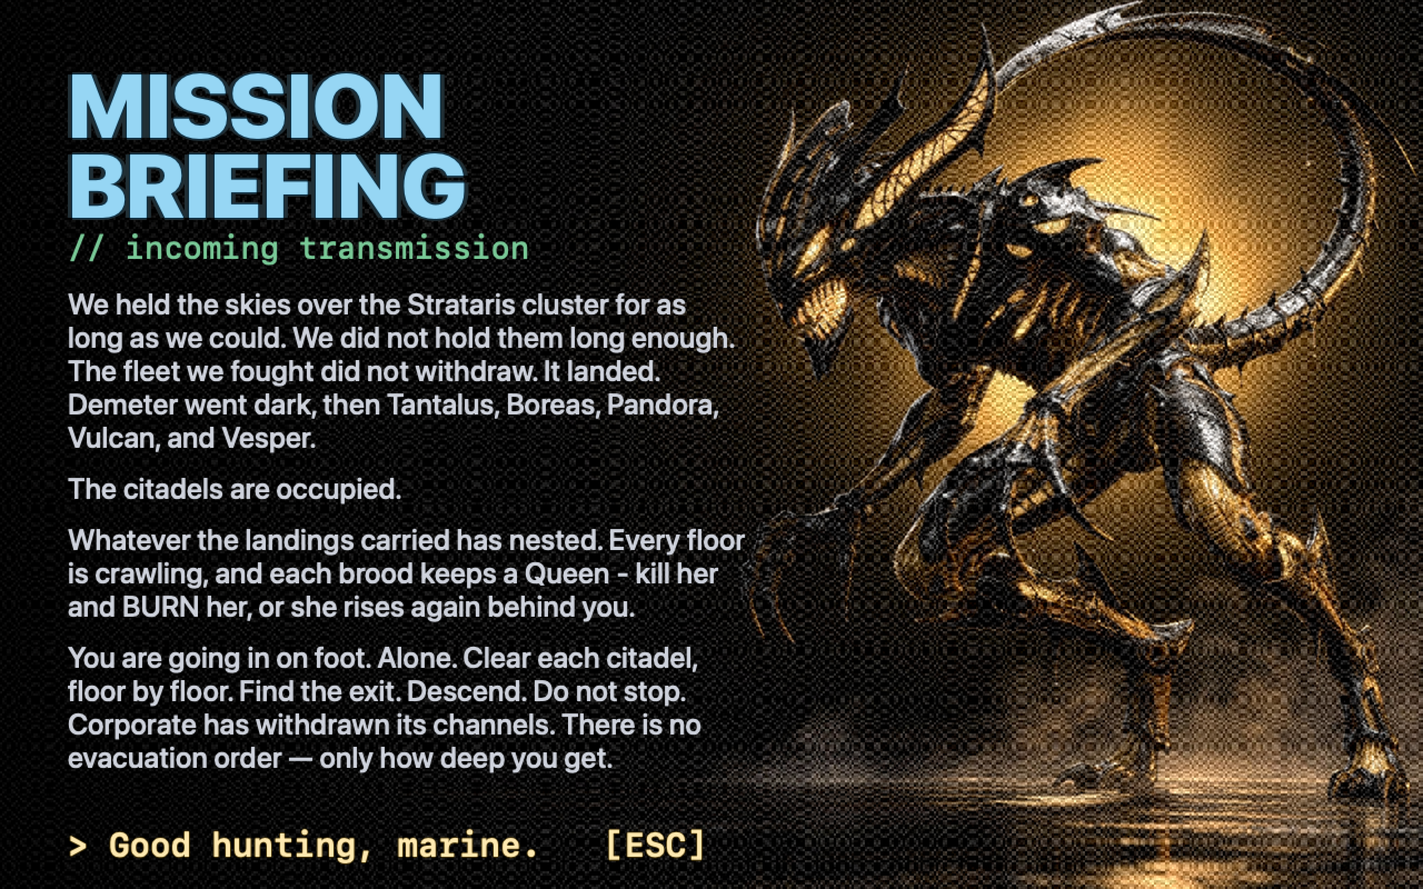
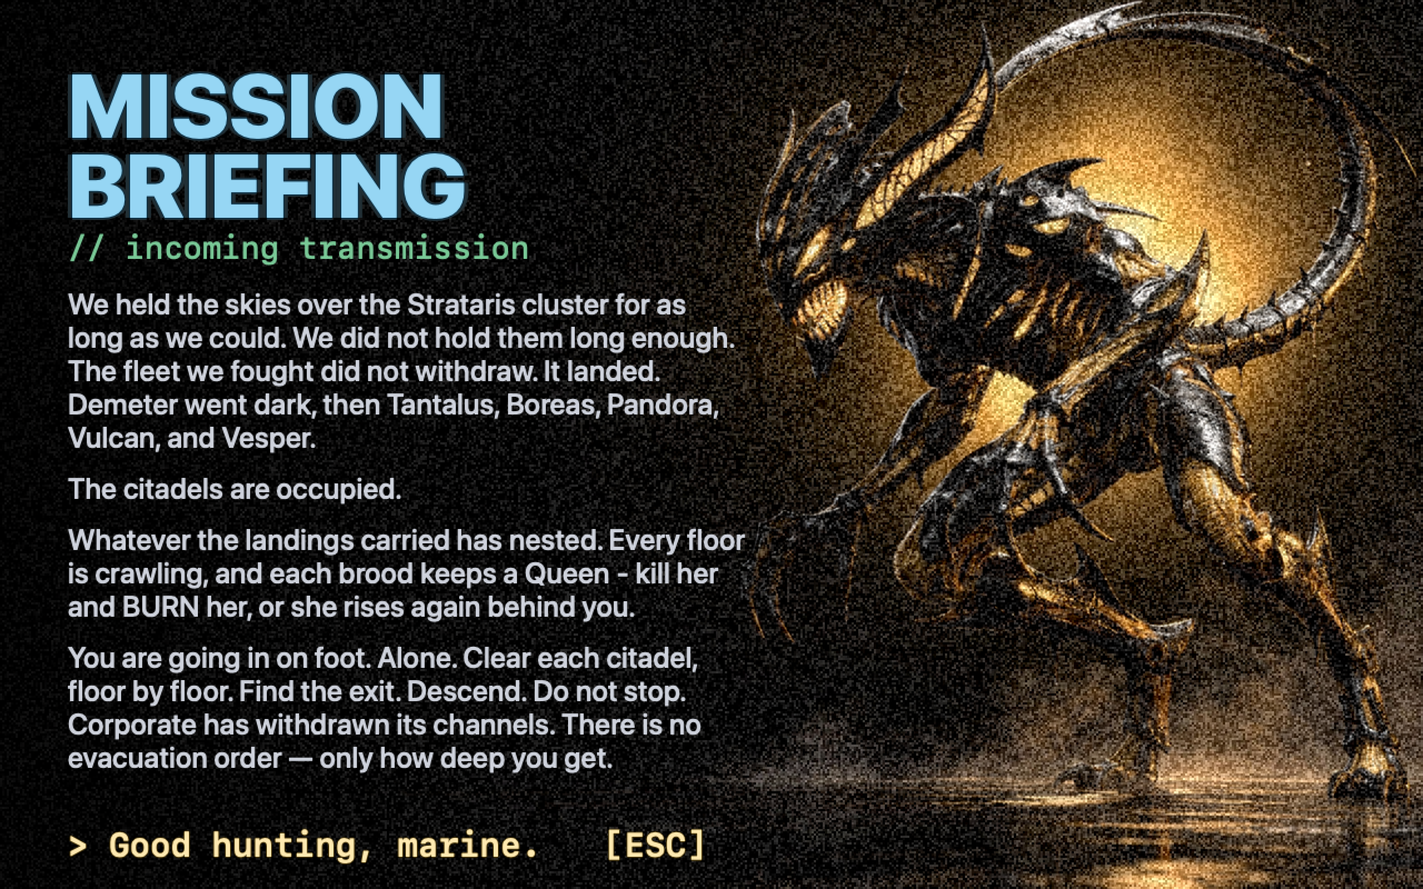
Pre-flight: prove the bundle carries no dead weight, and retake every screenshot
A release audit of the whole repo. The headline is that the CODE is clean — 69 Swift sources on
disk, 69 in the Makefile, no orphans in either direction, and all 114 resources referenced — but
that two things nobody was checking had rotted badly.

EVERY SCREENSHOT WAS OBSOLETE. All sixteen predated the renderer pivot (newest 22 July; the SDF
raymarcher was deleted on the 29th), so the six embedded in the README showed a game that no longer
exists — soft melted surfaces, no cast shadows, and a two-weapon HUD from before the three-weapon
redesign. Retaken from the shipping build. The numbering had also collided —
07-intel-5/07-weapons, 08-briefing/08-items, 10-highscores/10-atmosphere — because Captures.swift
numbers most frames from a running counter and hardcodes the rest, and the counter had grown past
the hardcoded numbers with both files surviving. Hardcoded names now start past the sequence.

Two frames were reworked rather than merely re-shot, because they were poor even when current.
`02-combat` was a fuel drum alone in an empty corridor — an honest picture of the renderer and a
poor picture of the game; there is a drone coming over the drum now, and the sightline requirement
DEGRADES through 4.4/3.4/2.7 rather than failing, because my first attempt asked for a single fixed
reach, found no angle, placed nothing, and left the marine facing a wall. A staging requirement
that can fail closed will eventually produce a blank marketing shot with nobody watching.
[…]

diff --git a/Sources/Harness/Captures.swift b/Sources/Harness/Captures.swift
@@ -52,14 +52,29 @@ enum Captures {
             }
             return true
         }
-        for k in 0..<24 {
-            let ang = world.player.dir + Float(k) * (.pi * 2 / 24)
-            if clearAhead(ang, 2.7) {
-                world.player.dir = ang
-                let dv = SIMD2<Float>(cos(ang), sin(ang))
-                world.drums.append(Drum(pos: world.player.pos + dv * 2.3, fuel: 150, health: 24))
-                break
+        // …AND SOMETHING TO SHOOT AT. The shot the README leads its gameplay row with was a fuel drum
+        // alone in an empty corridor — an honest picture of the renderer and a poor picture of the
+        // GAME. A drone put down the same sightline gives the frame the thing it is about. Placed
+        // rather than waited for: a marketing frame that depends on the AI wandering into view is one
+        // that silently becomes empty the day generation shifts.
+        //
+        // The reach DEGRADES rather than failing. Asking for a single fixed 4.4-cell sightline found
+        // no angle at all on this seed, so nothing was placed and the marine was left facing a wall —
+        // a staging requirement that can fail closed will eventually produce a blank marketing shot
+        // with nobody watching. Longest first, and the drone stands wherever the winning reach allows.
+        for reach in [Float(4.4), 3.4, 2.7] {
+            guard let ang = (0..<24).lazy
+                    .map({ world.player.dir + Float($0) * (.pi * 2 / 24) })
+                    .first(where: { clearAhead($0, reach) }) else { continue }
+            world.player.dir = ang
+            let dv = SIMD2<Float>(cos(ang), sin(ang))
+            world.drums.append(Drum(pos: world.player.pos + dv * (reach * 0.52), fuel: 150, health: 24))
+            if let di = world.monsters.firstIndex(where: { $0.kind == .alien }) {
+                world.monsters[di].pos = world.player.pos + dv * (reach * 0.88)
+                world.monsters[di].dir = ang + .pi          // facing the marine
+                world.monsters[di].state = .chase
             }
+            break
         }
         let game = Canvas2D()
         draw3D(world, into: game)
@@ -114,8 +129,8 @@ enum Captures {
         draw3D(world, into: dark)
         HUD().draw(world, into: dark)
         writePNG(dark.framebuffer, w: RenderConfig.width, h: RenderConfig.height, scale: scale,
-                 to: dir.appendingPathComponent("10-atmosphere.png"))
-        print("  wrote 10-atmosphere.png")
+                 to: dir.appendingPathComponent("16-atmosphere.png"))
+        print("  wrote 16-atmosphere.png")
 
         // door — part a sliding door halfway and frame it head-on from a couple
         // cells back, so the centre-split (two panels retracting to the jambs, the
@@ -157,10 +172,38 @@ enum Captures {
             let intel = Canvas2D(); FrontEnd.intel(intel, t: 5.0, page: page); save(intel, "intel-\(page + 1)")
         }
         let brief = Canvas2D(); FrontEnd.briefing(brief, t: 0.5); save(brief, "briefing")
+        // FLOOR CLEARED, with a tally it actually EARNED. This card used to be drawn over the same
+        // lightly-simulated world as the combat shot, so it advertised a cleared floor with 0/20
+        // kills, 0/1 secrets and a score of zero — a screenshot that reads as a bug report. The tally
+        // is not faked in: drones are walked in front of the marine and genuinely shot, so `World`
+        // does the damage, the deaths and the scoring by its own rules and the numbers on the card
+        // are ones the sim produced. A marketing frame may be staged; it may not lie.
+        // …in its OWN world. Reusing the combat world meant inheriting three shots' worth of staging:
+        // a drone forced to `.dead` for the fire frame (which bypasses `damageMonster`, so the HUD's
+        // live-state count and the card's `killCount` legitimately disagreed), a spent flamethrower,
+        // and a camera parked in the darkest cell for the atmosphere frame. A summary card wants a
+        // clean floor behind it.
+        let cw = World(level: 3, colonyIndex: 4, seed: 90210)
+        cw.player.giveWeapon(.plasma); cw.player.current = .plasma
+        let killInput = InputState(); killInput.kb.fire = true
+        for _ in 0..<9 {
+            guard let di = cw.monsters.firstIndex(where: { $0.alive && $0.kind == .alien }) else { break }
+            let dv = SIMD2<Float>(cos(cw.player.dir), sin(cw.player.dir))
+            cw.monsters[di].pos = cw.player.pos + dv * 2.6
+            cw.player.giveAmmo(.cells, 40)
+            var frames = 0
+            while cw.monsters[di].alive && frames < 400 {
+                cw.player.health = Player.maxHealth             // the marine is not the subject here
+                cw.update(dt: 1.0 / 60, input: killInput, audio: audio)
+                frames += 1
+            }
+        }
+        cw.player.health = Player.maxHealth
+        cw.player.muzzle = 0; cw.player.fireAnim = 0
         let cleared = Canvas2D()
-        draw3D(world, into: cleared)
-        HUD().draw(world, into: cleared)
-        FrontEnd.descendReport(cleared, world: world, t: 1.0)   // the diegetic panel shown inside the exit car
+        draw3D(cw, into: cleared)
+        HUD().draw(cw, into: cleared)
+        FrontEnd.descendReport(cleared, world: cw, t: 1.0)      // the diegetic panel shown inside the exit car
         save(cleared, "cleared")
         let scores = Canvas2D(); FrontEnd.highScores(scores, hs: hs, t: 0.5); save(scores, "highscores")
 
@@ -185,8 +228,8 @@ enum Captures {
             }
             wsheet.label(k.def.name, i * wW + 24, 20, size: 28, color: packRGBA(236, 202, 96), weight: .bold)
         }
-        writePNG(wsheet.framebuffer, w: wsheet.width, h: wsheet.height, scale: 1, to: dir.appendingPathComponent("07-weapons.png"))
-        print("  wrote 07-weapons.png")
+        writePNG(wsheet.framebuffer, w: wsheet.width, h: wsheet.height, scale: 1, to: dir.appendingPathComponent("14-weapons.png"))
+        print("  wrote 14-weapons.png")
 
         // item contact sheet
         let icols = 4, irows = (ItemKind.allCases.count + icols - 1) / icols
@@ -200,8 +243,8 @@ enum Captures {
             isheet.strokeRect(gx + 1, gy + 1, icw - 2, icw - 2, packRGBA(56, 58, 70))
             isheet.blitBitmap(spr.pixels, spr.w, spr.h, gx + (icw - spr.w) / 2, gy + (icw - spr.h) / 2)
         }
-        writePNG(isheet.framebuffer, w: icols * icw, h: irows * icw, scale: 2, to: dir.appendingPathComponent("08-items.png"))
-        print("  wrote 08-items.png")
+        writePNG(isheet.framebuffer, w: icols * icw, h: irows * icw, scale: 2, to: dir.appendingPathComponent("15-items.png"))
+        print("  wrote 15-items.png")
 
         // (the creatures' dossier busts are the mesh portraits shown in the codex —
         //  see the Field Intel pages below; there is no SDF monster contact sheet.)

diff --git a/Sources/Audio/AudioEngine.swift b/Sources/Audio/AudioEngine.swift
@@ -512,6 +512,50 @@ final class AudioEngine {
     }
 
     #if CITADEL_HARNESS
+    /// Every name `loadBank` would ever ask the bundle for: each Sound's base, plus its 1…16 variants.
+    private static var wantedAudioStems: Set<String> {
+        var out = Set<String>()
+        for s in Sound.allCases {
+            out.insert(s.base)
+            for i in 1...16 { out.insert("\(s.base)\(i)") }
+        }
+        return out
+    }
+
+    /// Harness only: audio files shipped in the bundle that NO `Sound` case will ever ask for —
+    /// bytes in the download that cannot make a sound. Nothing else can see these: the bank simply
+    /// never looks them up, so they are invisible to the probe, the smoke suite and the ear alike.
+    /// A renamed Sound base or a file numbered past 16 lands here rather than being noticed at
+    /// release time (or never).
+    var orphanAudioFiles: [String] {
+        let wanted = AudioEngine.wantedAudioStems
+        var out: [String] = []
+        for ext in AudioEngine.exts {
+            for url in Bundle.main.urls(forResourcesWithExtension: ext, subdirectory: "Audio") ?? [] {
+                if !wanted.contains(url.deletingPathExtension().lastPathComponent) {
+                    out.append(url.lastPathComponent)
+                }
+            }
+        }
+        return out.sorted()
+    }
+
+    /// Harness only: files a `Sound` DOES want, that ship, and that fail to decode — the nastier
+    /// case, because `findAndLoad` returns nil and the engine falls back to synth **silently**. The
+    /// bytes are paid for in the download and never heard. Ogg is the live risk (`exts` accepts it,
+    /// and whether AVAudioFile decodes Vorbis is an OS-version question, not a settled one).
+    var undecodableAudioFiles: [String] {
+        let wanted = AudioEngine.wantedAudioStems
+        var out: [String] = []
+        for ext in AudioEngine.exts {
+            for url in Bundle.main.urls(forResourcesWithExtension: ext, subdirectory: "Audio") ?? [] {
+                guard wanted.contains(url.deletingPathExtension().lastPathComponent) else { continue }
+                if loadBuffer(url) == nil { out.append(url.lastPathComponent) }
+            }
+        }
+        return out.sorted()
+    }
+
     /// Harness only: the synthesised machinery loop, so CITADEL_AUDIOPROBE can assert its spectrum
     /// and its loop seam. This sound cannot be auditioned in office mode, so it is verified by
     /// measurement instead of by ear.

diff --git a/Sources/Harness/SmokeTest.swift b/Sources/Harness/SmokeTest.swift
@@ -316,6 +316,23 @@ enum SmokeTest {
         // the visor redesign: the 3-D view owns the whole framebuffer
         check(RenderConfig.viewHeight == RenderConfig.height, "the 3-D view fills the visor (no status bar)")
 
+        // ── NO DEAD WEIGHT IN THE AUDIO BUNDLE ── 86 of the repo's files are audio, and NOTHING
+        // could see a bad one before this. Two distinct failures, both silent:
+        //   · ORPHANS — a file no `Sound` case will ever ask for (a renamed base, a variant numbered
+        //     past the loader's 1…16). The bank never looks it up, so it cannot make a sound; it is
+        //     bytes in the download and nothing else.
+        //   · UNDECODABLE — a file a Sound DOES want, that ships, and that `AVAudioFile` refuses.
+        //     `findAndLoad` returns nil and the engine falls back to synth without a word, so the
+        //     asset is paid for and never heard. Ogg is the live risk: `exts` accepts it and whether
+        //     Vorbis decodes is an OS-version question rather than a settled one.
+        let bundleAudio = AudioEngine()
+        bundleAudio.muted = true
+        let orphanAudio = bundleAudio.orphanAudioFiles, deadAudio = bundleAudio.undecodableAudioFiles
+        check(orphanAudio.isEmpty,
+              "every shipped audio file is one the bank asks for\(orphanAudio.isEmpty ? "" : " — ORPHANS: " + orphanAudio.joined(separator: ", "))")
+        check(deadAudio.isEmpty,
+              "…and every one of them actually decodes\(deadAudio.isEmpty ? "" : " — UNDECODABLE: " + deadAudio.joined(separator: ", "))")
+
         // the teleport flow end-to-end: a defeated Queen + a body on the pad arms
         // the report; a FRESH fire press charges; full charge completes the level
         let tAudio = AudioEngine()

diff --git a/tools/doccheck.py b/tools/doccheck.py
@@ -29,6 +29,7 @@ is complete and the references resolve. Read the prose too.
 """
 
 import argparse
+import json
 import pathlib
 import re
 import sys
@@ -41,6 +42,35 @@ DELIBERATELY_UNDOCUMENTED = {
     "FallenColonists": "naming it spoils a discovery — the README must not describe what it strips",
     "Updater": "an override on a default the BUILD decides (on when shipped, off when local) — "
                "documenting it would advertise a switch whose useful setting is already the default",
+    # ── STRIP AND TRIM SWITCHES ── these DO live in FeatureFlags.swift and were documented, and
+    #    Jonathan took them out of the README (2026-08-02) because they are not public-facing. The
+    #    six that remain are cheats and testing aids — things a player might reasonably want. These
+    #    four are different in kind: each one turns OFF authored work or re-tunes the art direction,
+    #    so publishing them amounts to inviting a player to un-make the game and then judge it.
+    "OverheadLight":   "a lighting trim whose DEFAULT is the tuned, moody look — the only thing "
+                       "documenting it achieves is helping someone flatten it",
+    "Headlamp":        "strips the helmet lamp; the honest description of the result is 'you will "
+                       "not see much', which is not a feature",
+    "Aftermath":       "strips the battle-damage dressing — an A/B left from a performance hunt, "
+                       "kept because it is useful to ME, not to a player",
+    "ScatteredPapers": "likewise strips the spilled-records decals",
+    # ── TUNING KNOBS AND DIAGNOSTICS ── these live OUTSIDE FeatureFlags.swift and so were invisible
+    #    to this check until its scan was widened to the whole of Sources/ (2026-08-01). None is a
+    #    player-facing feature: the README documents what a player might want to switch, and a mix
+    #    trim or a log file is not that. They are recorded here so the decision is on the record and
+    #    a genuinely new flag still fails the build.
+    "MachineHumGain":   "a mix trim, baked at the value it was tuned to; the knob survives because it "
+                        "is what settled the tuning, not because a player should turn it",
+    "ParticleGain":     "likewise a brightness trim on the GPU particles",
+    "MeshQueenHeadYaw": "a per-mesh pose offset — authoring calibration, meaningless without the mesh",
+    "frameLog":         "diagnostic: writes ~/Library/Logs/Citadel/frame.log, off unless asked for",
+    "audioLog":         "diagnostic: writes ~/Library/Logs/Citadel/audio.log, off unless asked for",
+    "muteBuses":        "office-mode silence for the headless harnesses",
+    "muteSounds":       "office-mode silence for the headless harnesses",
+    "muteSynth":        "office-mode silence for the headless harnesses",
+    "creatureReadback": "the pre-2026-07-28 CPU creature merge, kept as the reference the GPU path is "
+                        "diffed against (CreatureMergeProbe) and as an escape hatch — a fallback a "
+                        "player should never need to know exists",
 }
 
 # Assets whose absence from CREDITS is intentional (none so far — keep it that way).
@@ -98,7 +128,18 @@ def main() -> int:
                 findings.append(f"{doc}: references `{named}`, which does not exist")
 
     # 4. Every feature flag is either documented or recorded as deliberately not.
-    flags = sorted(set(re.findall(r'forKey:\s*"([A-Za-z]+)"', read("Sources/App/FeatureFlags.swift"))))
+    #    SCANS THE WHOLE OF Sources/, not just FeatureFlags.swift. It used to read that one file, which
+    #    made the check's scope narrower than its promise: nine `defaults` keys lived elsewhere — the
+    #    machinery mix trim in AudioEngine, the particle gain and frame log in RasterRenderer, the mesh
+    #    pose offset in MeshCreature, the office-mode mutes — and every one was invisible here. A knob
+    #    is a knob wherever it is read, and "documented or deliberately not" has to mean all of them.
+    #    GameSettings.swift is excluded: those keys are the player's own saved preferences (mouse
+    #    sensitivity, bindings), written by the settings screen, not switches anybody sets by hand.
+    flag_src = "\n".join(
+        p.read_text() for p in sorted((ROOT / "Sources").rglob("*.swift"))
+        if p.name != "GameSettings.swift"
+    )
+    flags = sorted(set(re.findall(r'forKey:\s*"([A-Za-z][A-Za-z0-9_]*)"', flag_src)))
     for f in flags:
         checks += 1
         if f not in readme and f not in DELIBERATELY_UNDOCUMENTED:
@@ -114,6 +155,42 @@ def main() -> int:
         checks += 1
         if not re.search(r"\bFour\b|\bfour\b", text.split("## Source map")[0].split("## The game")[0]):
             findings.append(f"{doc}: the asset-exception count near the top no longer reads 'four' — recount it")
+
+    # 6. A quoted COUNT drifts silently, because nothing recomputes prose. Both documents advertised
+    #    the shot sweep as "~65 frames" while the baseline held 74 — nobody lied, the number simply
+    #    aged. Any approximate figure in a doc needs an authority to be checked against; this one has
+    #    a committed baseline, so use it. Tolerance is deliberately loose (the tilde means "about"),
+    #    tight enough to catch a decade of drift and not so tight that adding one frame edits prose.
+    baseline = ROOT / "tools" / "shot-baseline.json"
+    if baseline.exists():
+        data = json.loads(baseline.read_text())
+        actual = len(data.get("frames", data))
+        for doc, text in (("README.md", readme), ("ARCHITECTURE.md", arch)):
+            for quoted in re.findall(r"~(\d+) frames", text):
+                checks += 1
+                if abs(int(quoted) - actual) > max(5, actual // 10):
+                    findings.append(f"{doc}: claims ~{quoted} shot frames, baseline has {actual}")
+
+    # 7. Screenshots: every one a document points at must exist, and every one on disk must be
+    #    pointed at. Both halves were broken at once — the docs embedded six frames while ten more
+    #    sat unreferenced, and the numbering had collided (07-intel-5/07-weapons, 08-briefing/
+    #    08-items, 10-highscores/10-atmosphere) because Captures.swift numbers most frames from a
+    #    running counter and hardcodes the rest. An orphan is dead weight; a dangling reference is a
+    #    broken image in the README. Neither is visible without comparing the two lists.
+    shots = ROOT / "docs" / "screenshots"
+    if shots.is_dir():
+        on_disk = {p.name for p in shots.glob("*.png")}
+        referenced: set[str] = set()
+        for text in (readme, arch, credits):
+            referenced |= set(re.findall(r"screenshots/([A-Za-z0-9._-]+\.png)", text))
+        for name in sorted(referenced):
+            checks += 1
+            if name not in on_disk:
+                findings.append(f"docs: a document references screenshots/{name}, which does not exist")
+        for name in sorted(on_disk - referenced):
+            checks += 1
+            findings.append(f"docs: screenshots/{name} is referenced by no document — "
+                            f"use it or delete it")
 
     if findings:
         print(f"doccheck: {len(findings)} finding(s) across {checks} checks\n")

diff --git a/README.md b/README.md
@@ -93,16 +93,42 @@ fight.
 
 ## Screenshots
 
+Every frame below is rendered by the headless capture harness — `CITADEL_SHOTS=docs/screenshots`
+— so the set is regenerated from the shipping build rather than collected by hand.
+
 ![The flamethrower, mid-gout, a drone caught in the stream](docs/screenshots/13-fire.png)
 
-*The flamethrower opens up in an occupied ARC control room.*
+*The flamethrower opens up, and a drone goes into the gout.*
 
 | | |
 |---|---|
-| ![Combat and the visor HUD](docs/screenshots/02-combat.png) | ![Field intel — the Queen](docs/screenshots/04-intel-2.png) |
-| The plasma rifle and the visor HUD. | FIELD INTEL: the Queen, front and profile. |
+| ![Combat and the visor HUD](docs/screenshots/02-combat.png) | ![A drone door parting](docs/screenshots/12-door.png) |
+| A drone comes over the fuel drum. Shoot the drum, or shoot the drone. | The doors part down the middle, and something is usually behind them. |
+| ![The dark, lit only by the helmet lamp](docs/screenshots/16-atmosphere.png) | ![Floor cleared](docs/screenshots/09-cleared.png) |
+| Underground, all light is man-made. This is what the helmet lamp buys you. | Floor cleared — the panel inside the freight car, before the ride down. |
+
+### The front end
+
+| | |
+|---|---|
 | ![Mission briefing](docs/screenshots/08-briefing.png) | ![The Hall of the Fallen](docs/screenshots/10-highscores.png) |
-| The occupation, in brief. | The Hall of the Fallen. |
+| The occupation, in brief. | The Hall of the Fallen — name, score, depth and colony. |
+
+**FIELD INTEL** — a five-page dossier, opened with **I** from the title:
+
+| | |
+|---|---|
+| ![Field intel — the drone](docs/screenshots/03-intel-1.png) | ![Field intel — the Queen](docs/screenshots/04-intel-2.png) |
+| CASTE I · the pack hunter. | CASTE II · the broodmother. |
+| ![Field intel — the arsenal](docs/screenshots/05-intel-3.png) | ![Field intel — field supply](docs/screenshots/06-intel-4.png) |
+| The arsenal, with real magazine sizes. | What you can pick up, and what it gives you. |
+| ![Field intel — what hurts](docs/screenshots/07-intel-5.png) | ![The three viewmodels](docs/screenshots/14-weapons.png) |
+| What hurts you, and how badly. | The three weapons as held, lit in-world. |
+
+| | |
+|---|---|
+| ![Pickup icons](docs/screenshots/15-items.png) | ![World hardware](docs/screenshots/11-props.png) |
+| Every pickup, drawn to match its in-world geometry. | The fuel drum, the proximity mine and the recharge socket. |
 
 ## Run it
 
@@ -158,20 +184,16 @@ written down. Saves survive death, and finishing the game doesn't clear them.
 
 ### Hidden feature flags
 
-Most are off by default; opt in per machine with `defaults write` (read live, so a
+All are off by default; opt in per machine with `defaults write` (read live, so a
 change lands on the next frame — no relaunch):
 
 ```sh
-defaults write cc.jorviksoftware.Citadel Godmode       -bool  true   # no damage
-defaults write cc.jorviksoftware.Citadel FastMonsters  -bool  true   # nightmare speed
-defaults write cc.jorviksoftware.Citadel RevealMap     -bool  true   # automap fully revealed
-defaults write cc.jorviksoftware.Citadel ScreenshotKey -bool  true   # F saves a 1920×1080 PNG to the Desktop
-defaults write cc.jorviksoftware.Citadel FixedSeed     -int   1234   # pin the level seed for testing
-defaults write cc.jorviksoftware.Citadel StartLevel    -int   9      # warp new runs to a floor (1-indexed; testing)
-defaults write cc.jorviksoftware.Citadel OverheadLight -float 1.0    # ceiling-lamp brightness (default 0.5 — the tuned, moody look)
-defaults write cc.jorviksoftware.Citadel Headlamp      -bool  false  # strip the helmet lamp (default on — you will not see much)
-defaults write cc.jorviksoftware.Citadel Aftermath     -bool  false  # strip the battle-damage dressing (default on)
-defaults write cc.jorviksoftware.Citadel ScatteredPapers -bool false # strip the spilled-records decals (default on)
+defaults write cc.jorviksoftware.Citadel Godmode       -bool true   # no damage
+defaults write cc.jorviksoftware.Citadel FastMonsters  -bool true   # nightmare speed
+defaults write cc.jorviksoftware.Citadel RevealMap     -bool true   # automap fully revealed
+defaults write cc.jorviksoftware.Citadel ScreenshotKey -bool true   # F saves a 1920×1080 PNG to the Desktop
+defaults write cc.jorviksoftware.Citadel FixedSeed     -int  1234   # pin the level seed for testing
+defaults write cc.jorviksoftware.Citadel StartLevel    -int  9      # warp new runs to a floor (1-indexed; testing)
 ```
 
 ### Headless harnesses
@@ -184,7 +206,7 @@ CITADEL_SMOKE=1 ./.build/Citadel.app/Contents/MacOS/Citadel
 # render the documentation screenshots into docs/screenshots:
 CITADEL_SHOTS=docs/screenshots ./.build/Citadel.app/Contents/MacOS/Citadel
 
-# the workhorse: ~65 frames covering every environment feature the game has —
+# the workhorse: ~75 frames covering every environment feature the game has —
 # corridors, lamp pools, every room type, the plant floors, creatures at walls:
 CITADEL_RASTERSHOT=/tmp/shots ./.build/Citadel.app/Contents/MacOS/Citadel
 

diff --git a/ARCHITECTURE.md b/ARCHITECTURE.md
@@ -87,7 +87,7 @@ fallback for a missing sample. See [CREDITS.md](CREDITS.md).
 | `AudioEngine.swift` | Sampled SFX, looping stems, reactive bed, the ceremony's crowd; synth fallback |
 | **Harness** (headless, never in a signed build) | |
 | `SmokeTest.swift` | The suite: generation, solvability, combat, saves, determinism fingerprint |
-| `RasterShot.swift` | ~65 frames covering every environment feature — the shotcheck input |
+| `RasterShot.swift` | ~75 frames covering every environment feature — the shotcheck input |
 | `Captures.swift` / `RoomShots.swift` / `MaterialPreview.swift` / `ProofRoom.swift` | Screenshot + room / material / proof captures |
 | `AudioProbe.swift` | Offline audio-graph render; per-path RMS + the mix asserted as ratios |
 | `SettleProbe.swift` | Sweeps the mesh-settle solver's inputs; asserts a drawn body never teleports |
